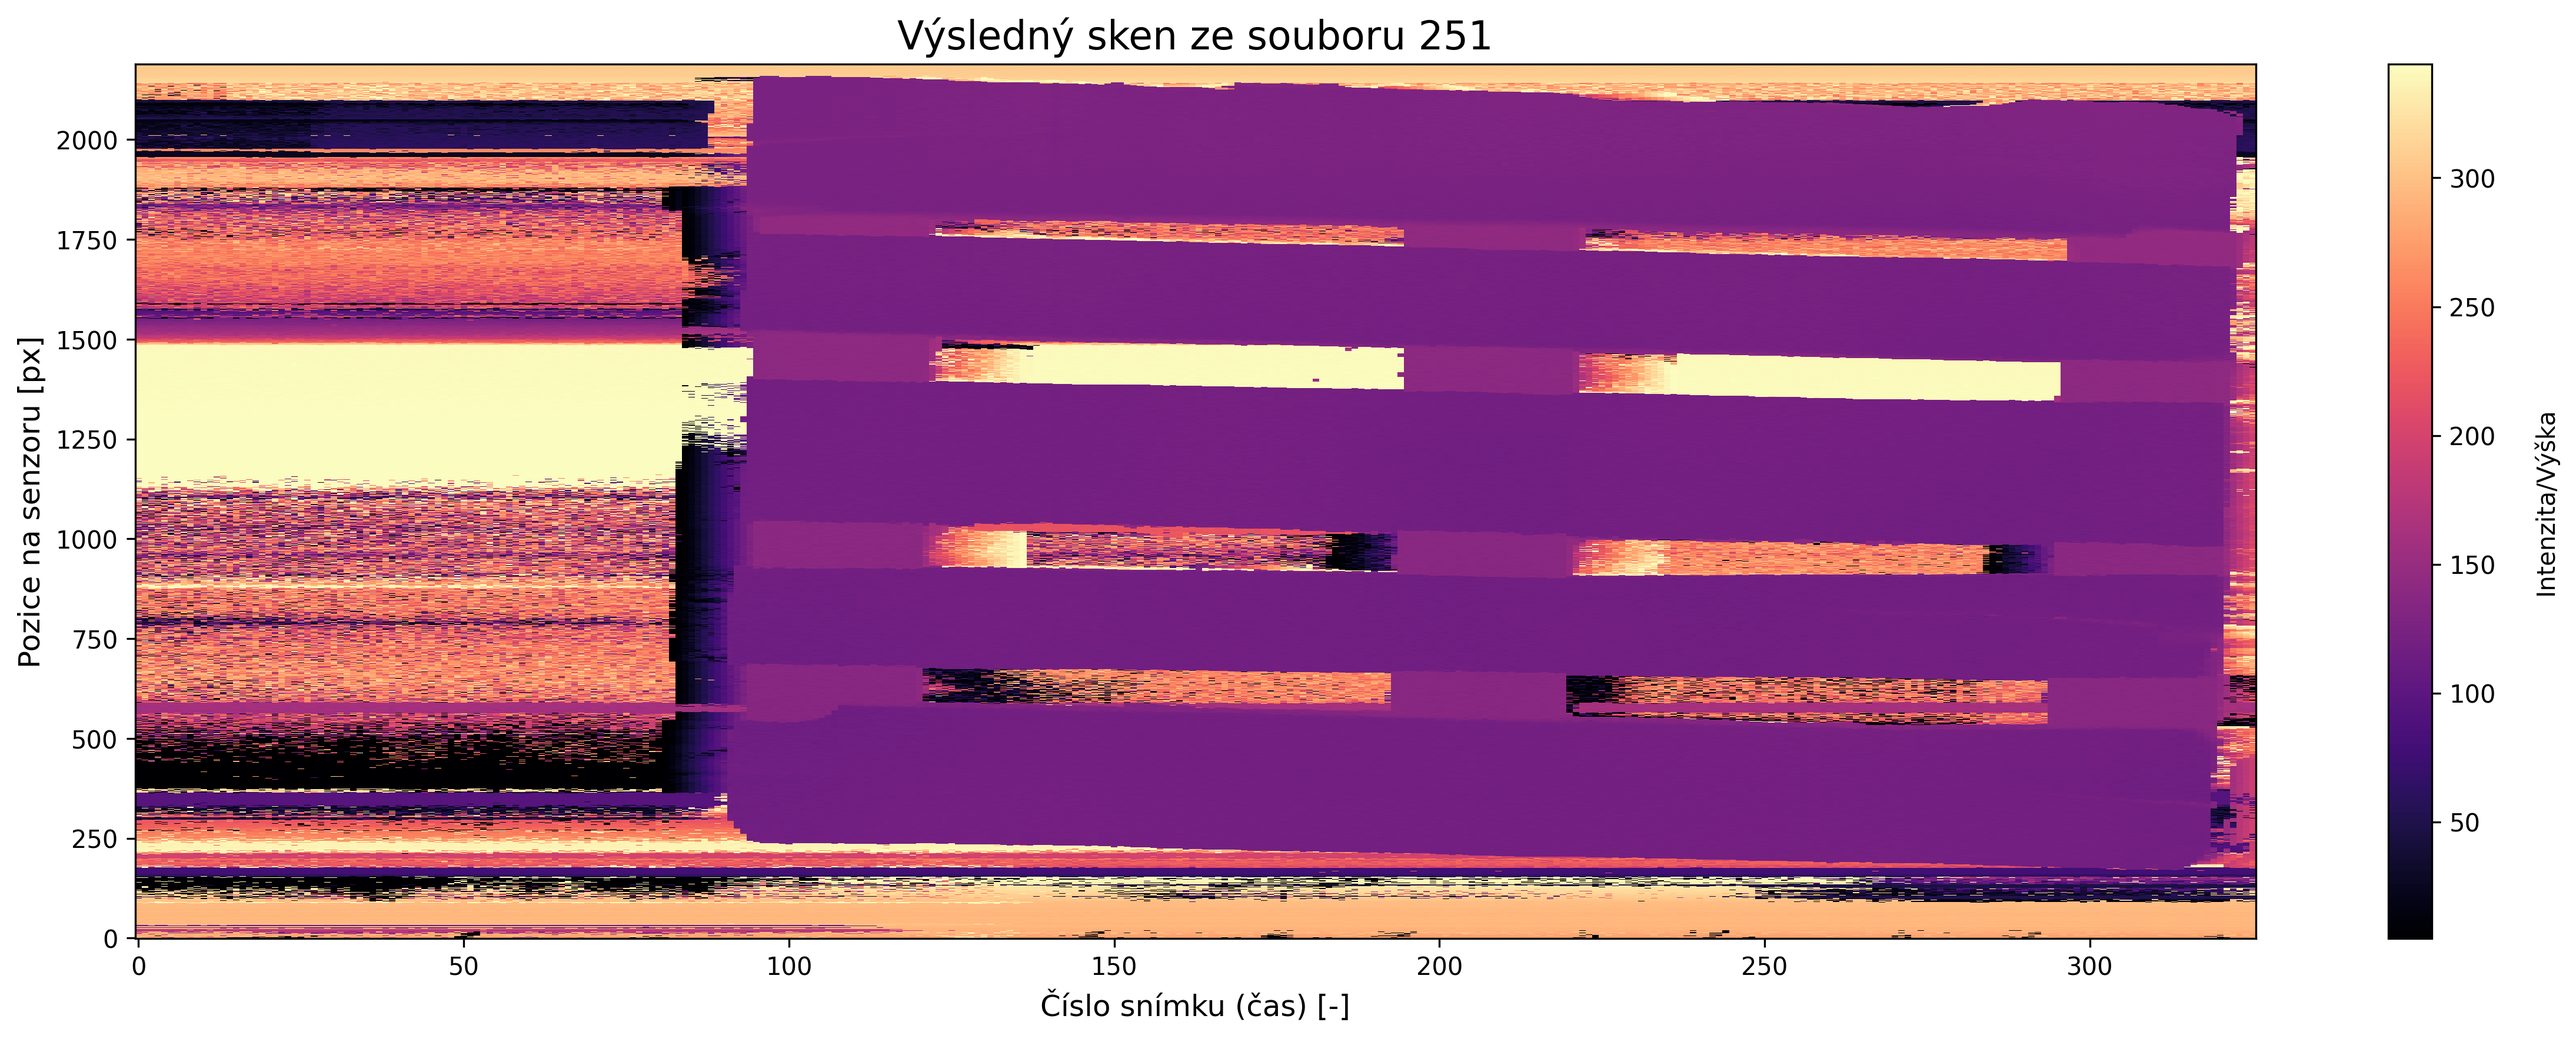
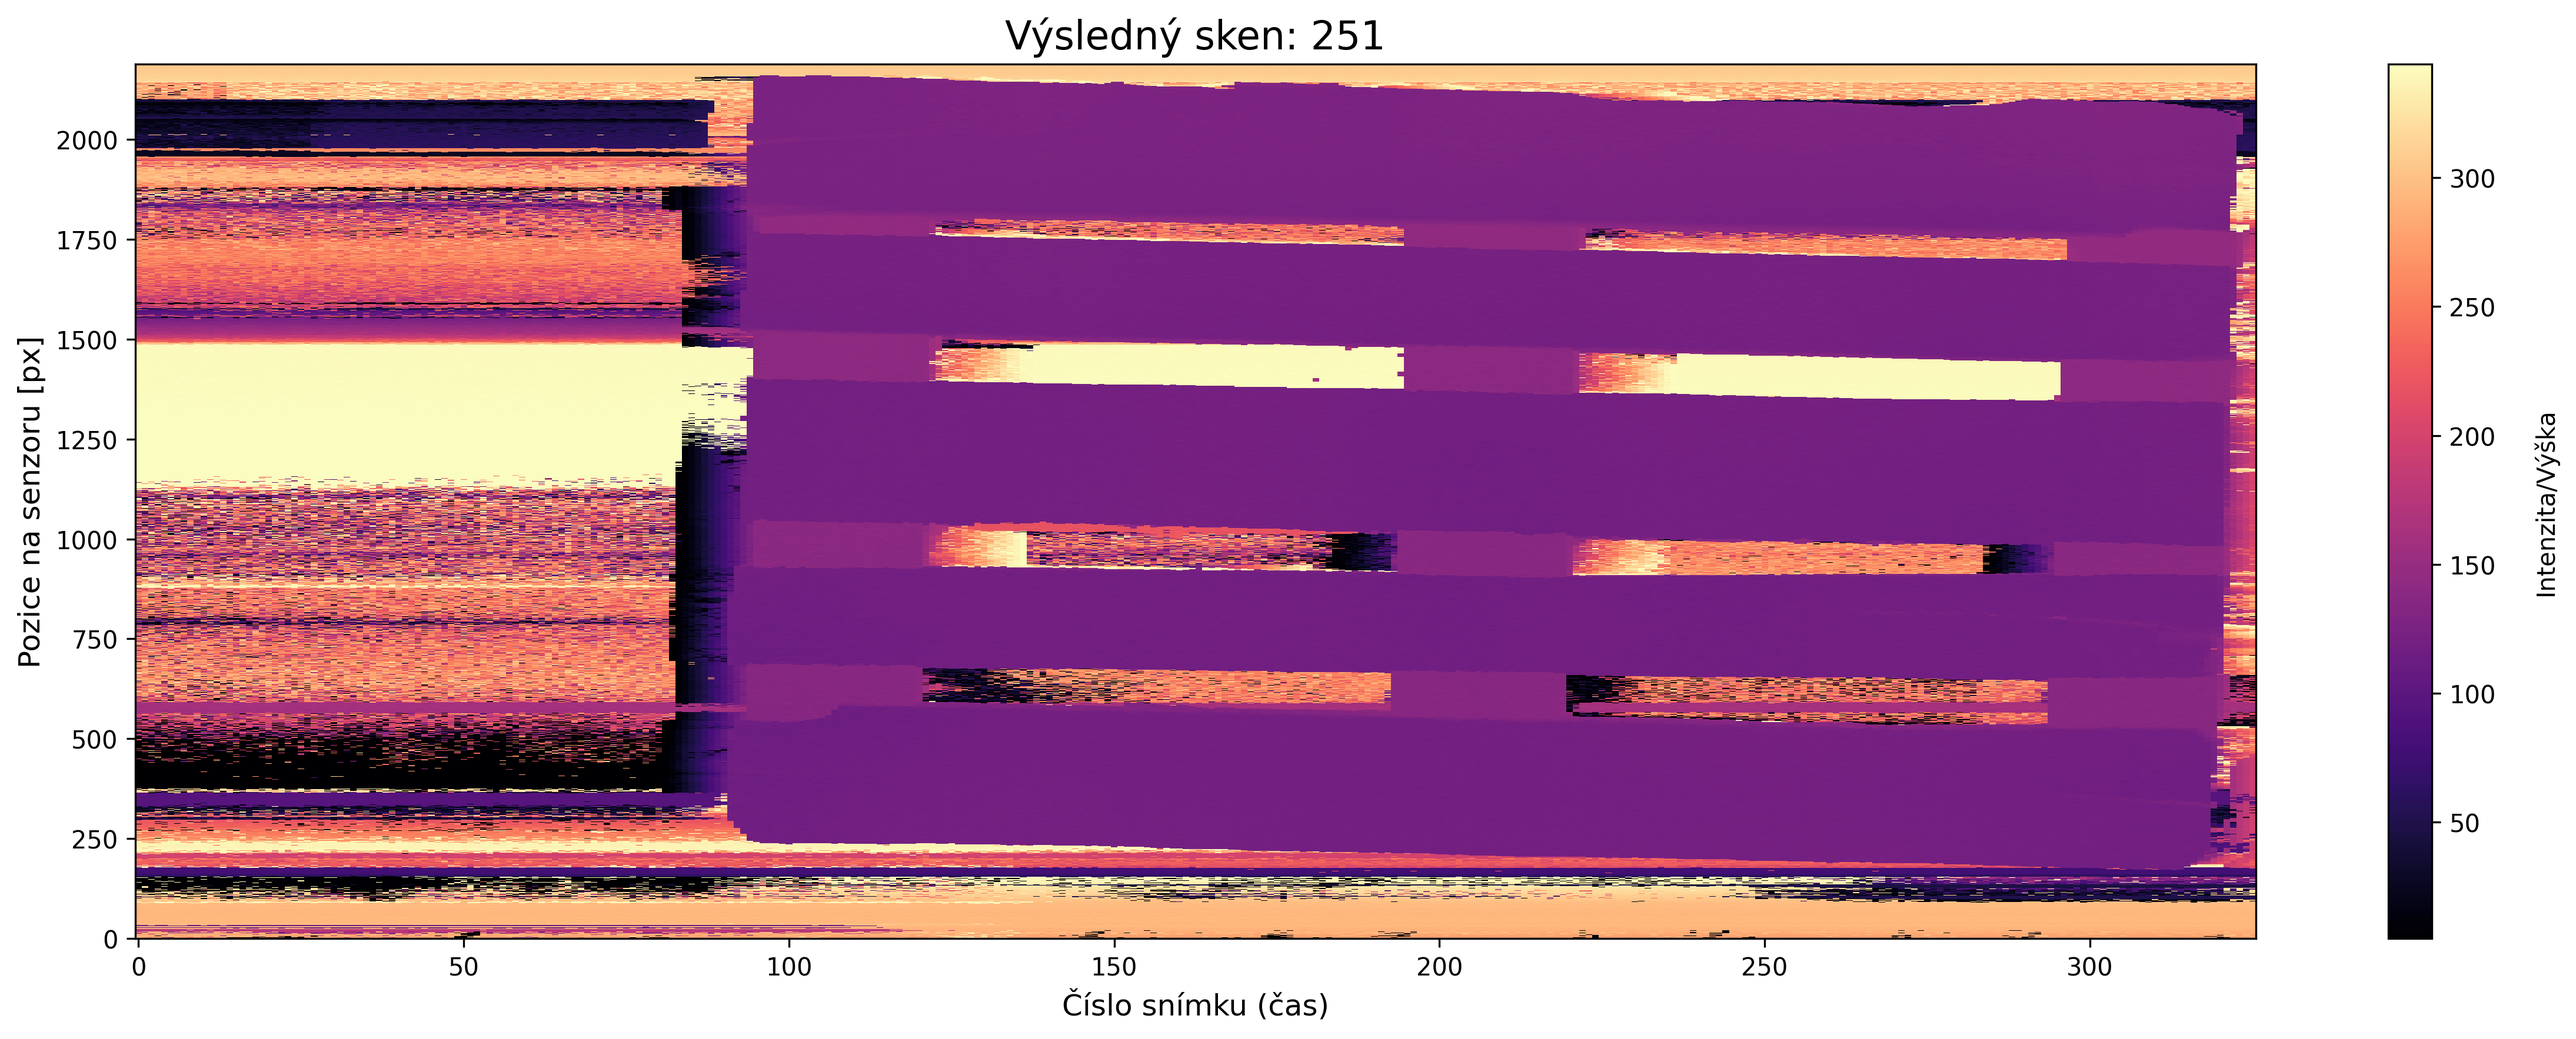
Initial Commit

diff --git a/linovy laser - Zuth/ReseniZuth.py b/linovy laser - Zuth/ReseniZuth.py
@@ -1,28 +1,33 @@
+# -*- coding: utf-8 -*-
 import numpy as np
 import matplotlib.pyplot as plt
 import os
-import cv2  # Stále importujeme pro případné operace, i když data načítáme z numpy
+import cv2
 
-# --- Nastavení cest a souborů (Podle prvního skriptu) ---
+# --- NASTAVENÍ ---
 outAdr = './OUT/'
-N = '251'
+N = '251'  # ZDE MĚNÍŠ NÁZEV SOUBORU (např. 'b351' nebo 'b251')
 input_file = os.path.join(outAdr, f'kamera_{N}.npy')
 
-# --- Nastavení parametrů detekce ---
-LASER_AXIS = 0  # 0 = Laser je vertikálně, 1 = laser je horizontálně
-THRESHOLD_VALUE = 20  # Minimální jas laseru (možná bude potřeba upravit podle citlivosti kamery)
-PEAK_WINDOW = 10  # Okno pro těžiště
+# Parametry detekce
+LASER_AXIS = 0  # 0 = Laser je vertikálně, 1 = Laser je horizontálně
+THRESHOLD_VALUE = 20  # Minimální jas pro detekci (odfiltrování šumu)
+PEAK_WINDOW = 10  # Poloměr okna pro výpočet těžiště
 
 
-# Funkce pro subpixelovou detekci (zůstává stejná)
 def get_laser_center_subpixel(img_slice):
+    """
+    Vypočítá přesné centrum laseru (subpixelová přesnost) v jednom řádku/sloupci.
+    """
     img_slice = img_slice.astype(float)
     max_idx = int(np.argmax(img_slice))
     max_val = img_slice[max_idx]
 
+    # Pokud je signál příliš slabý, vrátíme NaN (nedefinováno)
     if max_val < THRESHOLD_VALUE:
         return np.nan
 
+    # Určení okna okolo maxima
     start = max(0, max_idx - PEAK_WINDOW)
     end = min(len(img_slice), max_idx + PEAK_WINDOW + 1)
 
@@ -30,96 +35,102 @@ def get_laser_center_subpixel(img_slice):
     window_idxs = np.arange(start, end)
 
     total = np.sum(window_vals)
-    if total == 0: return np.nan
+    if total == 0:
+        return np.nan
 
-    # Posuneme indexy relativně k oknu a přičteme start
+    # Vážený průměr (těžiště)
     return np.sum(window_idxs * window_vals) / total
 
 
-# Hlavní funkce
 def main():
-    print(f"Načítám data ze souboru: {input_file}")
+    print(f"--- START ---")
+    print(f"Hledám soubor: {input_file}")
 
+    # 1. Kontrola a načtení souboru
     if not os.path.exists(input_file):
-        print("Soubor .npy neexistuje! Zkontroluj cestu.")
+        print(f"CHYBA: Soubor {input_file} neexistuje!")
+        print("Ujisti se, že jsi spustil první skript a složka OUT existuje.")
         return
 
-    # Načtení .npy souboru (stejně jako ve skriptu A)
     snimky_3d_loaded = np.load(input_file)
-
-    # Převedení na list (pokud je potřeba, ale numpy array je lepší pro výkon)
-    # Zde pracujeme přímo s numpy polem, je to rychlejší
     n_snimku = len(snimky_3d_loaded)
-    print(f"Načteno {n_snimku} snímků. Zahajuji výpočet...")
+    print(f"Načteno {n_snimku} snímků. Zahajuji zpracování...")
 
     depth_map = []
 
+    # 2. Zpracování snímků
     for i in range(n_snimku):
         img = snimky_3d_loaded[i]
 
-        # --- Detekce signálu ---
-        # Původní skript dělal: Red - Green.
-        # Musíme zjistit, jestli je vstup barevný (3 dimenze) nebo černobílý (2 dimenze)
-
+        # Rozhodnutí zda je vstup barevný (3D) nebo šedotónový (2D)
         if img.ndim == 3:
-            # Je to barevné (H, W, Channels) -> Použijeme logiku odečítání kanálů
-            # Pozor: OpenCV načítá BGR, ale Matplotlib/Numpy často RGB.
-            # Zde předpokládáme pořadí jako v cv2.subtract(R, G)
-            # Pokud by to nefungovalo, zkus jen převod na šedou: cv2.cvtColor(img, cv2.COLOR_BGR2GRAY)
-
-            # Ošetření přetečení (numpy uint8 při odečítání může blbnout, cv2.subtract je bezpečné)
+            # Předpoklad: Červený laser. Odečteme zelenou složku pro zvýraznění.
+            # (Používáme cv2.subtract pro bezpečné odečtení uint8 bez přetečení)
             laser_signal = cv2.subtract(img[:, :, 2], img[:, :, 1])
         else:
-            # Je to černobílé (H, W) -> Použijeme přímo jasové hodnoty
+            # Obraz už je jen jasová mapa
             laser_signal = img
 
         h, w = laser_signal.shape
         profile = []
 
+        # Procházení řezů obrazem
         if LASER_AXIS == 0:
-            # Procházíme řádky
             for y in range(h):
                 profile.append(get_laser_center_subpixel(laser_signal[y, :]))
         else:
-            # Procházíme sloupce
             for x in range(w):
                 profile.append(get_laser_center_subpixel(laser_signal[:, x]))
 
         depth_map.append(profile)
 
+        # Výpis průběhu
         if i % 50 == 0:
-            print(f"Zpracováno {i}/{n_snimku}")
+            print(f"Zpracováno {i} / {n_snimku}")
 
-    # Převedeme na matici a otočíme
-    # Tady záleží, jak chceš data vidět.
-    # scan_result bude mít rozměry: [Počet pixelů na řádek] x [Počet snímků]
+    # Převedení na numpy array a transpozice (otočení), aby osa X byla čas/snímky
     scan_result = np.array(depth_map).T
+    print("Výpočet hotov. Připravuji graf...")
 
-    print("Výpočet hotov. Vykresluji...")
+    # 3. Nastavení vizualizace (Natažení osy X pro b351)
 
-    # --- Vizualizace ---
-    plt.figure(figsize=(16, 6))
+    # Výchozí rozměry
+    fig_width = 16
+    fig_height = 6
 
-    # Nahradíme NaN nuly pro zobrazení
+    if N == 'b351':
+        print(f"Detekován soubor '{N}' -> Zapínám režim natažené osy X.")
+        # Zmenšením výšky při zachování šířky se graf opticky roztáhne do stran
+        fig_height = 3
+        # fig_width necháme 16, aby se to vešlo na monitor
+    elif N == 'b251':
+        print(f"Detekován soubor '{N}' -> Standardní zobrazení.")
+        fig_height = 6
+
+    plt.figure(figsize=(fig_width, fig_height))
+
+    # Převedení NaN na nulu pro zobrazení
     viz_data = np.nan_to_num(scan_result)
 
-    # Vykreslení
+    # Vykreslení: aspect='auto' je klíčové pro natažení pixelů do tvaru okna
     img_plot = plt.imshow(viz_data, cmap='magma', interpolation='nearest', aspect='auto', origin='lower')
 
-    plt.title(f"Výsledný sken ze souboru {N}", fontsize=16)
+    plt.title(f"Výsledný sken: {N}", fontsize=16)
     plt.ylabel("Pozice na senzoru [px]", fontsize=12)
-    plt.xlabel("Číslo snímku (čas) [-]", fontsize=12)
+    plt.xlabel("Číslo snímku (čas)", fontsize=12)
 
+    # Přidání colorbaru
     cbar = plt.colorbar(img_plot)
     cbar.set_label('Intenzita/Výška', rotation=90, labelpad=15)
 
     plt.tight_layout()
 
-    # Uložení
+    # Uložení do souboru
     output_filename = f"vysledny_sken_{N}.png"
     plt.savefig(output_filename, dpi=300, bbox_inches='tight')
     print(f"--> Obrázek uložen jako: {output_filename}")
 
+    # Zobrazení
     plt.show()
 
 

diff --git a/linovy laser - Zuth/VizeMereni.py b/linovy laser - Zuth/VizeMereni.py
@@ -13,7 +13,7 @@ import matplotlib.pyplot as plt
 
 
 outAdr='./OUT/'
-N='251'
+N='b351'
 do=1000
 od=0
 snimky_3d_loaded = np.load(outAdr+f'kamera_{N}.npy')
